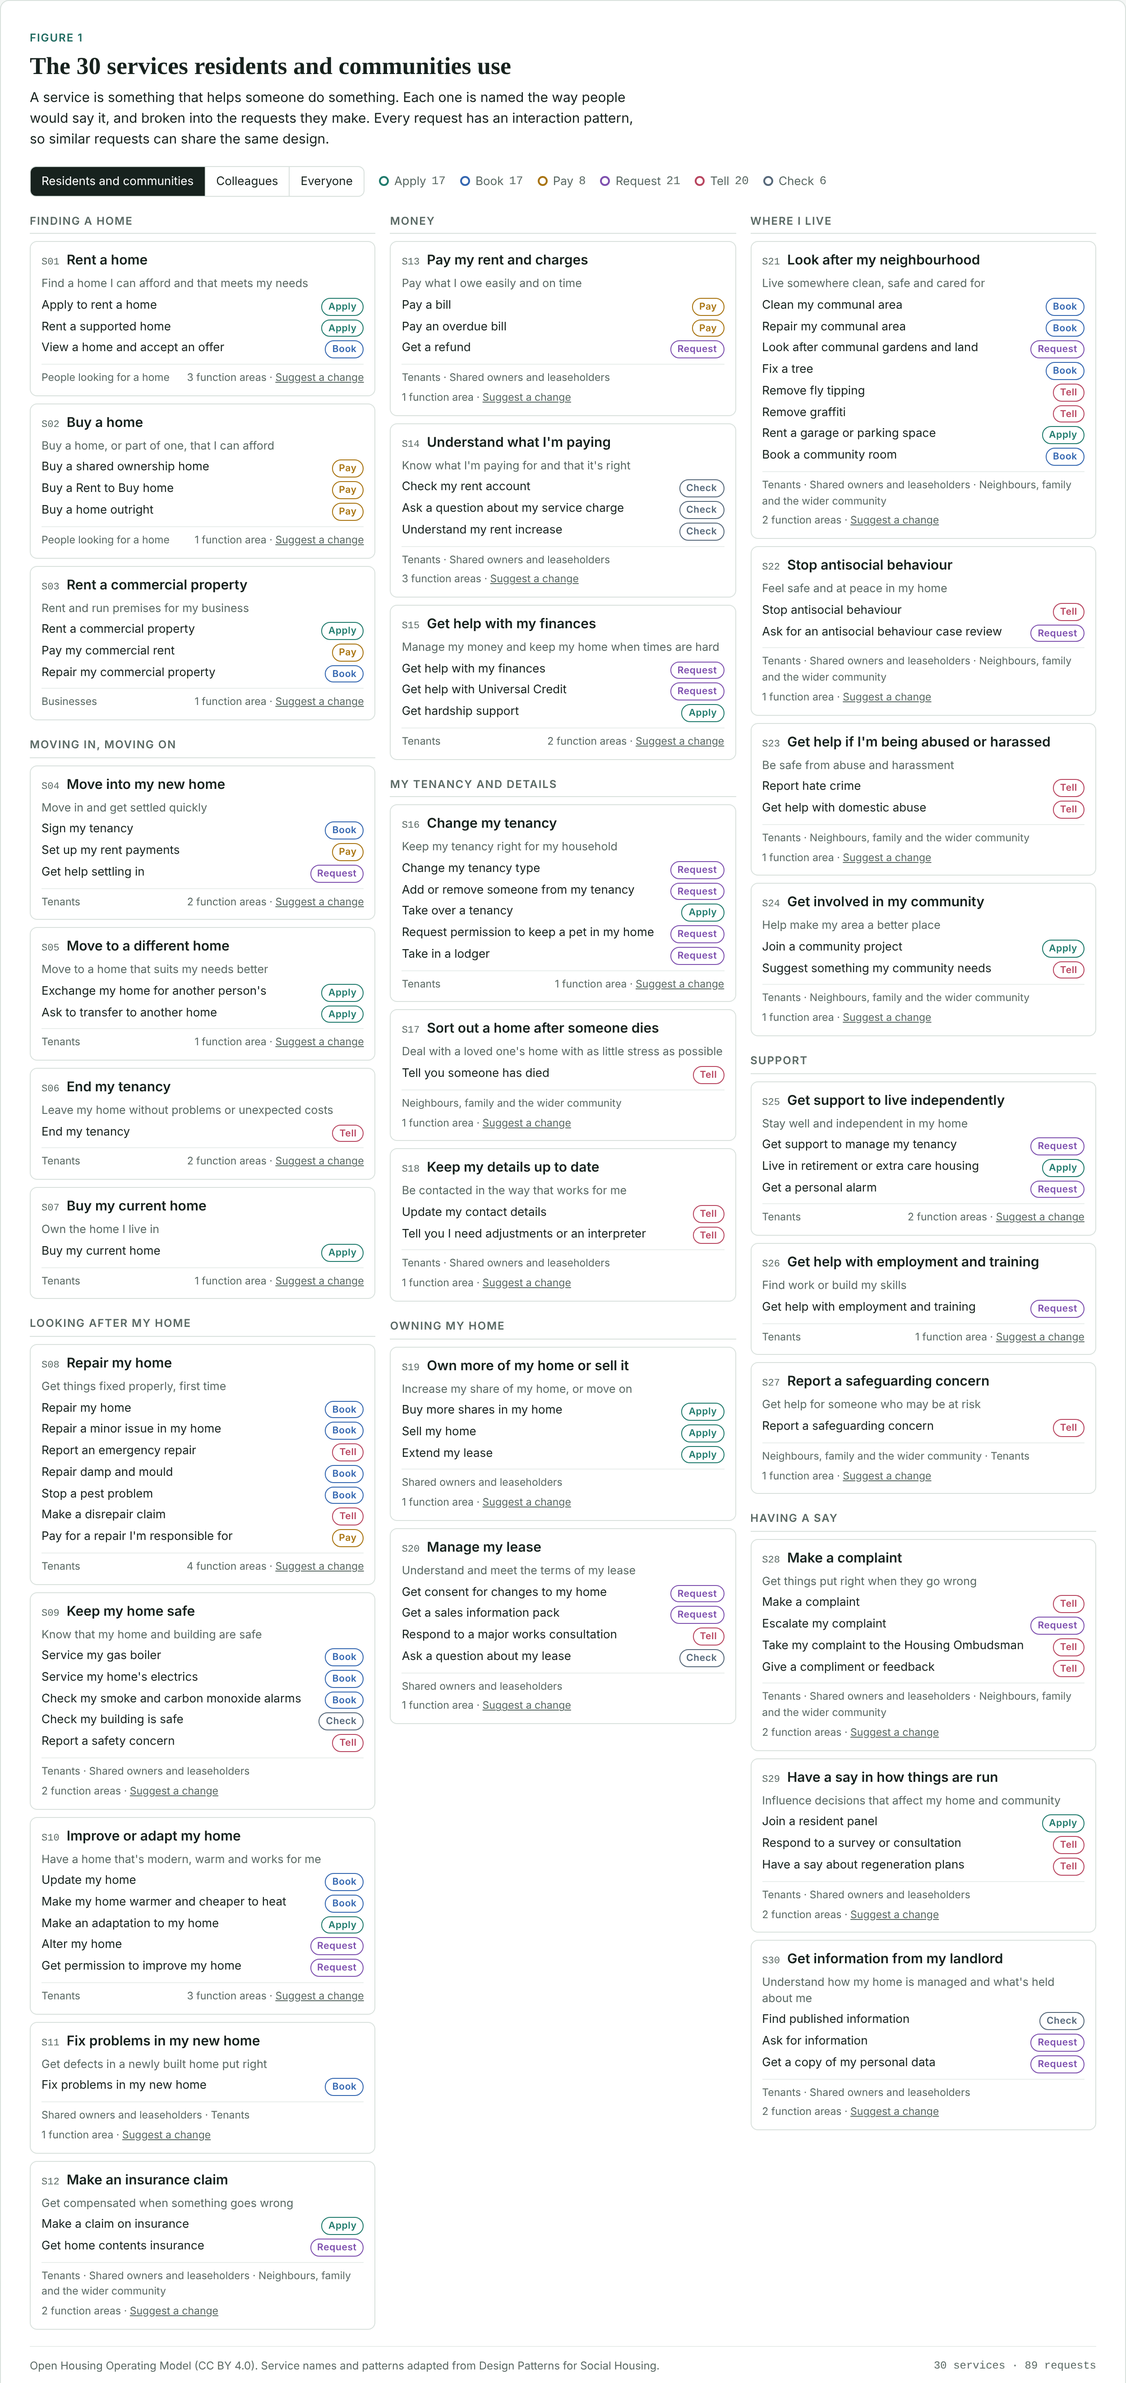
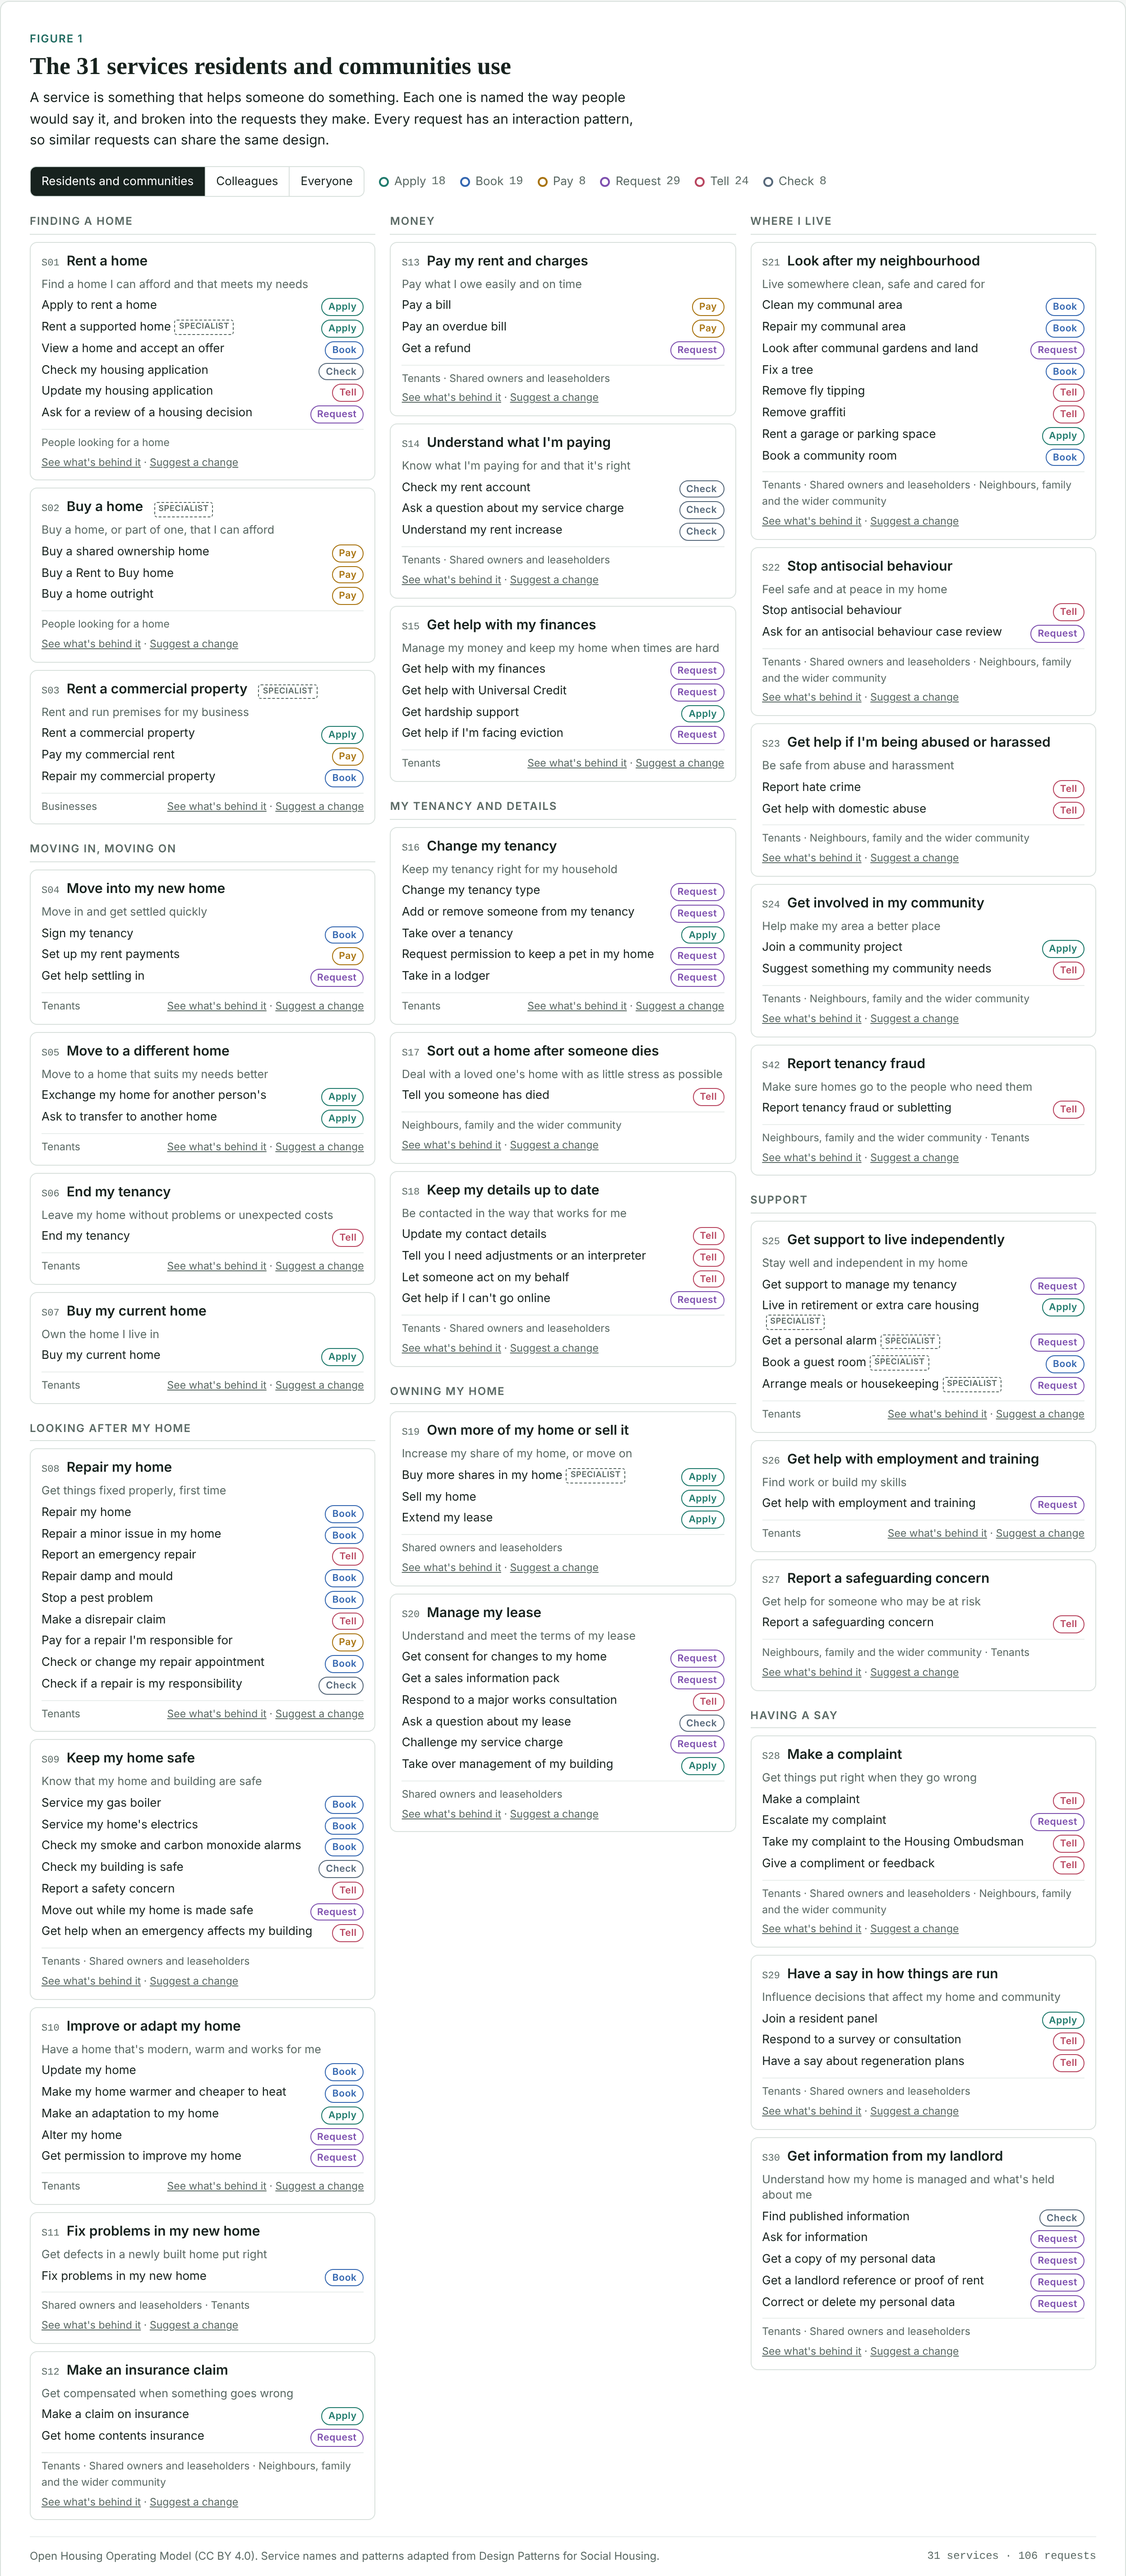
Refresh README screenshots and keep matrix rows in their groups
The three README images now show 42 services and 117 requests,
specialist badges and S42. In the "Compare all services" grid, services
are now listed by group, so S42 sits under "Where I live" instead of a
second heading at the bottom.

Claude-Session: https://claude.ai/code/session_01F4v6JkEaxkNh1U4kVRCdV1

diff --git a/site/template.html b/site/template.html
@@ -523,7 +523,7 @@ segs('view2', d => setView(d.view));
 
 let aud2 = 'public';
 function renderMatrix(aud) {
-  aud2 = aud; const ss = D.services.filter(s => audOk(s, aud) && svcOn(s));
+  aud2 = aud; const gi = id => D.groups.findIndex(g => g.id === id); const ss = D.services.filter(s => audOk(s, aud) && svcOn(s)).sort((a, b) => gi(a.g) - gi(b.g));
   const cell = s => { const c = D.areas.map(() => new Set()); reqsOf(s).forEach(r => r.a.forEach(([ai, code]) => c[ai].add(code))); return c.map(x => x.size); };
   const rows = ss.map(s => [s, cell(s)]); const mx = Math.max(1, ...rows.flatMap(r => r[1]));
   const used = D.areas.map(() => new Set()); ss.forEach(s => reqsOf(s).forEach(r => r.a.forEach(([ai, code]) => used[ai].add(code))));
